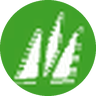
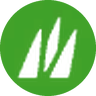
fix: タイプ丸アイコンの中央の模様がかすむ問題を修正
ユーザー報告「中央の模様がかすんでしまっている」に対し、実測で原因を3つ特定して
generate_type_icons.py を修正し、通常タイプ19枚を再生成した(テラス側は無変更)。

1. リサンプルが2回かかっていた
   マーク縮小を元解像度(40x40)で行ってからOUTPUT_SIZE(96)へ拡大していたため
   40 -> 34 -> 96 と2回リサンプルされ、1回目の縮小で捨てた細部が戻らずボケていた。
   build_mark_shrunk_icon() が出力解像度まで担当し、マークは
   「元解像度 -> round(96 * MARK_SCALE)」の1回のリサンプルで済むようにした。

2. 元位置にマークの残像(ゴースト)が残っていた
   _row_fill_background() が ROUGH_WHITE_MIN(190) を超える画素だけを埋めていたため、
   その1px外側のアンチエイリアス縁(実測 min(r,g,b)=185程度)が背景として温存され、
   縮小後のマークの外側に薄い輪郭として残っていた。MARK_MASK_DILATE=1 で
   マスクを1px膨張させてから埋めるようにして解消(半径0/1/2を比較して決定)。

3. paste時にalphaが二乗されていた
   完全に透明なキャンバスへ mark_small を自分自身をマスクにしてpasteしていたため
   出力alphaが a*a になり、縁が実測で約1割薄くなっていた(型1で総alpha 72876 -> 65204)。
   マスク指定を外した。

検証: 白色系画素数が19タイプ全てで15〜50%増(例 くさ 745 -> 1115)。
マークの内接円マージンは全タイプで正のまま(最小はフェアリーの8.3px)で、
ラウンド42で対応した「模様の見切れ」は再発していない。テスト298件パス。

Changed region(s): [[0.125, 0.0938, 0.875, 0.9062]]

diff --git a/scripts/type-icons/generate_type_icons.py b/scripts/type-icons/generate_type_icons.py
@@ -51,6 +51,23 @@ https://raw.githubusercontent.com/PokeAPI/sprites/master/sprites/types/generatio
     (背景全体を縮小してから透明パディングで埋め戻す案も試したが、LANCZOS
     リサイズによる縁の半透明化が薄い縁取り状のハローとして視認でき、
     見た目の劣化が大きかったため不採用にした)。
+    🔴 2026-07-30 追加報告「中央の模様がかすんでしまっている」。実測で原因を2つ特定した。
+    (1) リサンプルが2回かかっていた: マーク縮小を元解像度(40x40)で行ってから
+        OUTPUT_SIZE(96)へ拡大していたため、40 -> 34 -> 96 と2回リサンプルされ、
+        1回目の縮小で捨てた細部が2回目の拡大で戻らずボケていた。マークの縮小は
+        「元解像度 -> round(OUTPUT_SIZE * MARK_SCALE)」の1回のリサンプルで済むので、
+        build_mark_shrunk_icon() が出力解像度まで面倒を見る形に変えた。
+    (2) 元位置にマークの残像(ゴースト)が残っていた: _row_fill_background() が
+        「マークらしき画素(ROUGH_WHITE_MIN=190)」だけを埋めていたため、その1px外側に
+        ある「背景よりは明るいがしきい値には届かないアンチエイリアス縁」(実測で
+        min(r,g,b)が185程度)が背景として温存され、縮小したマークの外側に薄い輪郭が
+        そのまま残っていた。これがマークの周りの霞(にじみ)として見えていた。
+        MARK_MASK_DILATE で mask を1px膨張させてから埋めることで解消した。
+    さらに mark_canvas.paste(mark_small, offset, mark_small) が「透明キャンバスへ自分自身を
+    マスクにしてpaste」していたため、出力alphaが a*a と二乗されアンチエイリアス縁が
+    実測で1割ほど薄くなっていた(型1で総alphaが72876 -> 65204)。paste先が完全に透明な
+    キャンバスなのでマスクは不要であり、マスクなしのpasteに変えて二乗化をなくした。
+
     🔴 2026-07-30 追加報告: 上記の対応(マーク縮小)だけでは、保存される
     public/type-icons/N.png 自体は依然として正方形(角まで角丸ピルの塗りが
     残る)のままで、表示側のCSS `border-radius: 50%` に円形化を依存していた。
@@ -162,6 +179,14 @@ ROUGH_ALPHA_MIN = 60
 # 生じない。
 MARK_SCALE = 0.84
 
+# マーク判定マスクを膨張させる半径(px, 元画像解像度基準)。
+# ROUGH_WHITE_MIN(190)でも取りこぼす「背景よりわずかに明るいだけのアンチエイリアス縁」
+# (実測でmin(r,g,b)=185程度)が背景側に残ると、マークを縮小したあとも元位置に薄い輪郭
+# =残像が残り、これが「模様がかすむ」原因になる(2026-07-30 ユーザー報告)。
+# 実測(半径0/1/2の比較)で半径1あれば19タイプ全てで残像が視認できなくなり、かつ
+# 埋め距離が伸びることによる背景グラデーション(ステラ)の劣化も起きないことを確認した。
+MARK_MASK_DILATE = 1
+
 # 円形マスクのアンチエイリアス品質。マスクをOUTPUT_SIZEのSUPERSAMPLE倍の解像度で
 # 描画してからLANCZOSで縮小することで、円周のジャギーを抑える。
 CIRCLE_MASK_SUPERSAMPLE = 4
@@ -233,6 +258,32 @@ def _is_rough_fg(pixel: tuple[int, int, int, int]) -> bool:
     return a >= ROUGH_ALPHA_MIN and min(r, g, b) >= ROUGH_WHITE_MIN
 
 
+def _dilate_mask(mask: list[list[bool]], radius: int) -> list[list[bool]]:
+    """mask をおおむね円形の構造要素で radius px 膨張させたコピーを返す。
+    マーク周辺のアンチエイリアス縁まで「マーク扱い」にして背景から確実に除くために使う。
+    """
+    if radius <= 0:
+        return mask
+    h = len(mask)
+    w = len(mask[0])
+    offsets = [
+        (dx, dy)
+        for dy in range(-radius, radius + 1)
+        for dx in range(-radius, radius + 1)
+        if dx * dx + dy * dy <= radius * radius + radius
+    ]
+    out = [[False] * w for _ in range(h)]
+    for y in range(h):
+        for x in range(w):
+            if not mask[y][x]:
+                continue
+            for dx, dy in offsets:
+                yy, xx = y + dy, x + dx
+                if 0 <= yy < h and 0 <= xx < w:
+                    out[yy][xx] = True
+    return out
+
+
 def _row_fill_background(im: Image.Image, rough_mask: list[list[bool]]) -> Image.Image:
     """rough_mask[y][x]がTrue(マークらしき画素)の位置を、同じ行で最も近い
     「マークではない」画素の色で塗りつぶした「背景だけ」の画像を作る(行内近傍埋め)。
@@ -282,19 +333,26 @@ def _compute_mark_alpha(im: Image.Image, bg: Image.Image) -> list[list[float]]:
     return alpha
 
 
-def build_mark_shrunk_icon(cropped: Image.Image) -> Image.Image:
+def build_mark_shrunk_icon(cropped: Image.Image, size: int) -> Image.Image:
     """crop_icon_square()が返す h×h の正方形から、白色系の「マーク」だけを検出・分離し、
-    中心基準でMARK_SCALEに縮小してから、変更していない背景に再合成する。
+    中心基準でMARK_SCALEに縮小してから、変更していない背景に再合成した size×size を返す。
 
     背景(角丸ピルの塗り)は一切縮小・移動しないため、この処理をしても背景の見た目
     (色・角の透明具合)は変わらない。変わるのはマークが内接円からのマージンを
     多く持つようになる点だけ。処理の必要性・不採用にした代替案は本ファイル冒頭の
     docstring参照。
+
+    出力解像度へのリサイズもこの関数の中で行う(呼び出し側で別途resizeしない)。
+    マークは「元解像度 -> round(size * MARK_SCALE)」の1回のリサンプルだけで目標サイズに
+    なるため、元解像度で縮小してから拡大していた頃のボケが生じない(冒頭docstringの
+    「かすんでしまっている」報告への対応)。
     """
     w, h = cropped.size
     px = cropped.load()
     rough_mask = [[_is_rough_fg(px[x, y]) for x in range(w)] for y in range(h)]
-    bg = _row_fill_background(cropped, rough_mask)
+    # 膨張させたマスクで埋めることで、マーク周辺のアンチエイリアス縁が背景に残像として
+    # 焼き付くのを防ぐ(MARK_MASK_DILATEのコメント参照)。
+    bg = _row_fill_background(cropped, _dilate_mask(rough_mask, MARK_MASK_DILATE))
     mark_alpha = _compute_mark_alpha(cropped, bg)
 
     mark_layer = Image.new("RGBA", (w, h), (255, 255, 255, 0))
@@ -303,13 +361,16 @@ def build_mark_shrunk_icon(cropped: Image.Image) -> Image.Image:
         for x in range(w):
             mark_px[x, y] = (255, 255, 255, round(255 * mark_alpha[y][x]))
 
-    new_side = round(w * MARK_SCALE)
-    mark_small = mark_layer.resize((new_side, new_side), Image.LANCZOS)
-    mark_canvas = Image.new("RGBA", (w, h), (255, 255, 255, 0))
-    offset = (w - new_side) // 2
-    mark_canvas.paste(mark_small, (offset, offset), mark_small)
+    bg_resized = bg.resize((size, size), Image.LANCZOS)
+    new_side = round(size * MARK_SCALE)
+    mark_resized = mark_layer.resize((new_side, new_side), Image.LANCZOS)
+    mark_canvas = Image.new("RGBA", (size, size), (255, 255, 255, 0))
+    offset = (size - new_side) // 2
+    # paste先が完全に透明なキャンバスなのでマスクは渡さない。マスクに自分自身を渡すと
+    # 出力alphaが a*a と二乗され、アンチエイリアス縁が薄くなる(冒頭docstring参照)。
+    mark_canvas.paste(mark_resized, (offset, offset))
 
-    result = bg.convert("RGBA")
+    result = bg_resized.convert("RGBA")
     result.alpha_composite(mark_canvas)
     return result
 
@@ -441,9 +502,7 @@ def generate_one(type_id: int, *, tera: bool) -> tuple[Path, tuple[int, int, int
         result = pad_to_square(stitched).resize((OUTPUT_SIZE, OUTPUT_SIZE), Image.LANCZOS)
     else:
         cropped, box = crop_icon_square(im)
-        shrunk = build_mark_shrunk_icon(cropped)
-        resized = shrunk.resize((OUTPUT_SIZE, OUTPUT_SIZE), Image.LANCZOS)
-        result = apply_circular_mask(resized)
+        result = apply_circular_mask(build_mark_shrunk_icon(cropped, OUTPUT_SIZE))
 
     out_dir = TERA_OUT_DIR if tera else OUT_DIR
     out_dir.mkdir(parents=True, exist_ok=True)
